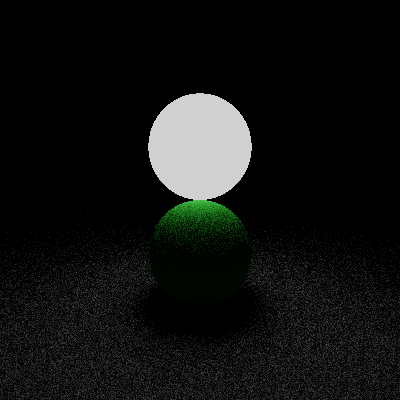
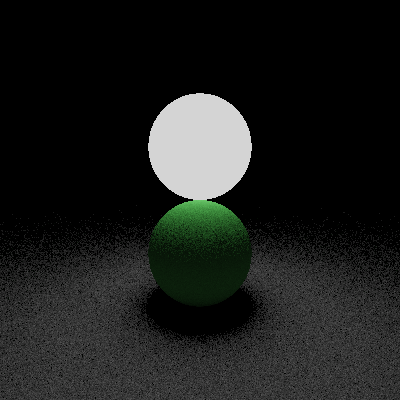
new example

Changed region(s): [[0.0, 0.48, 1.0, 1.0]]

diff --git a/README.md b/README.md
@@ -200,7 +200,7 @@ It is possible to tune the parameters alpha and gamma.
 ### Example 2 (render)
 
 ```bash
-./trayx render examples/render/example1.txt 400 400 --output=examples/render/example1.png --luminosity=0.4 --alpha=2 --numberOfRays=30
+./trayx render examples/render/example1.txt 400 400 --output=examples/render/example1.png --luminosity=0.4 --gamma=2 --numberOfRays=100
 ```
 
 
